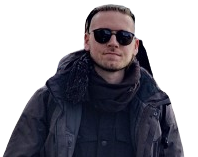
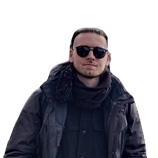
changed profile photo

diff --git a/src/App.js b/src/App.js
@@ -29,7 +29,7 @@ function App() {
           img-src 'self' https://openqube.io/ https://polotecnologico.net https://media.licdn.com https://cdn.jsdelivr.net https://pngset.com https://static.vecteezy.com
           https://w7.pngwing.com https://tl.vhv.rs https://raw.githubusercontent.com https://tl.vhv.rs https://static-00.iconduck.com https://cdn-icons-png.flaticon.com
           https://www.svgrepo.com https://icons8.com https://seeklogo.com https://upload.wikimedia.org https://www.fixedbuffer.com https://www.sovereignconsult.com
-          https://miro.medium.com https://i.pinimg.com https://thumbs.dreamstime.com https://us.123rf.com;  
+          https://miro.medium.com https://i.pinimg.com https://thumbs.dreamstime.com https://us.123rf.com https://github.com;  
           font-src 'self' https://fonts.gstatic.com
           https://cdn.jsdelivr.net data:; "/>
         <link rel="stylesheet" href="https://cdn.jsdelivr.net/npm/bootstrap-icons@1.10.5/font/bootstrap-icons.css"/>

diff --git a/src/portfolio/home/home.js b/src/portfolio/home/home.js
@@ -10,7 +10,7 @@ export default class Home extends Component {
                 <div className="blue-bg-outer">
                     <div className="white-bg">
                     <div className="blue-bg">
-                        <img src="" alt="" />
+                        <img src="https://raw.githubusercontent.com/FacuKopech/react-portfolio/main/public/profilePhoto.png" alt="" />
                     </div>
                     </div>
                 </div>
@@ -44,7 +44,7 @@ export default class Home extends Component {
                 </a>
             </div>
             <br />
-            <a href='' target="_blank" title='CV' download="Facundo Kopech - Resume 2024.pdf">
+            <a href='https://github.com/FacuKopech/react-portfolio/raw/main/public/Facundo%20Kopech%20-%20Resume%202024.pdf' target="_blank" title='CV' download="Facundo Kopech - Resume 2024.pdf">
                 <button className="downloadButton"></button>
             </a>
             </div>
